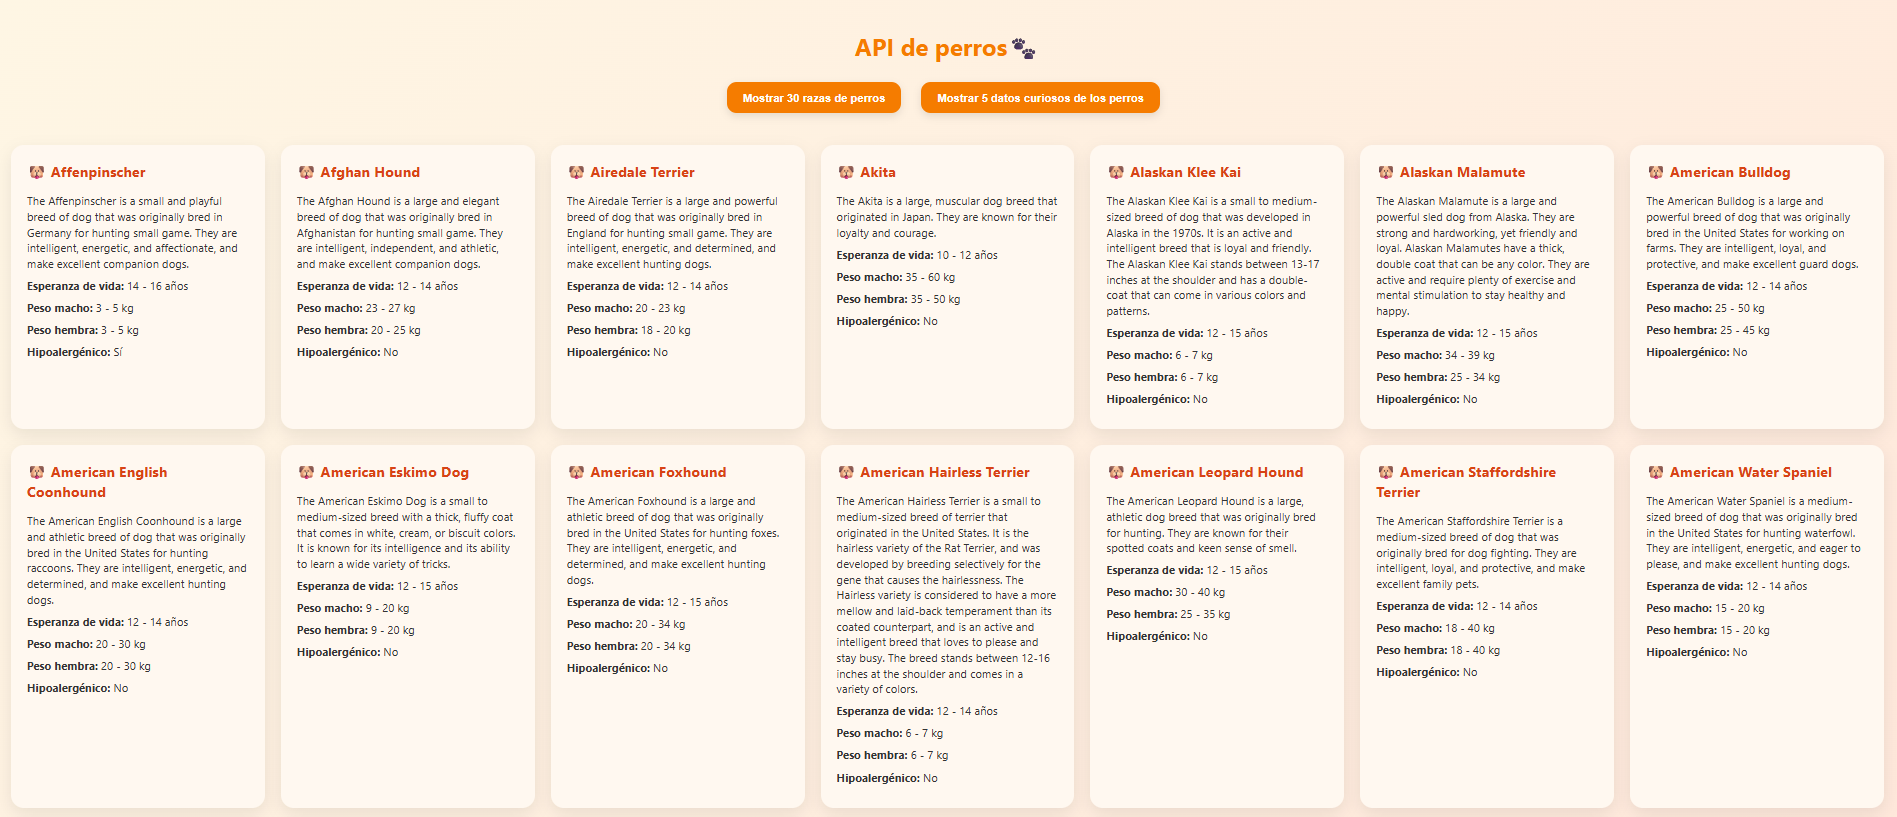
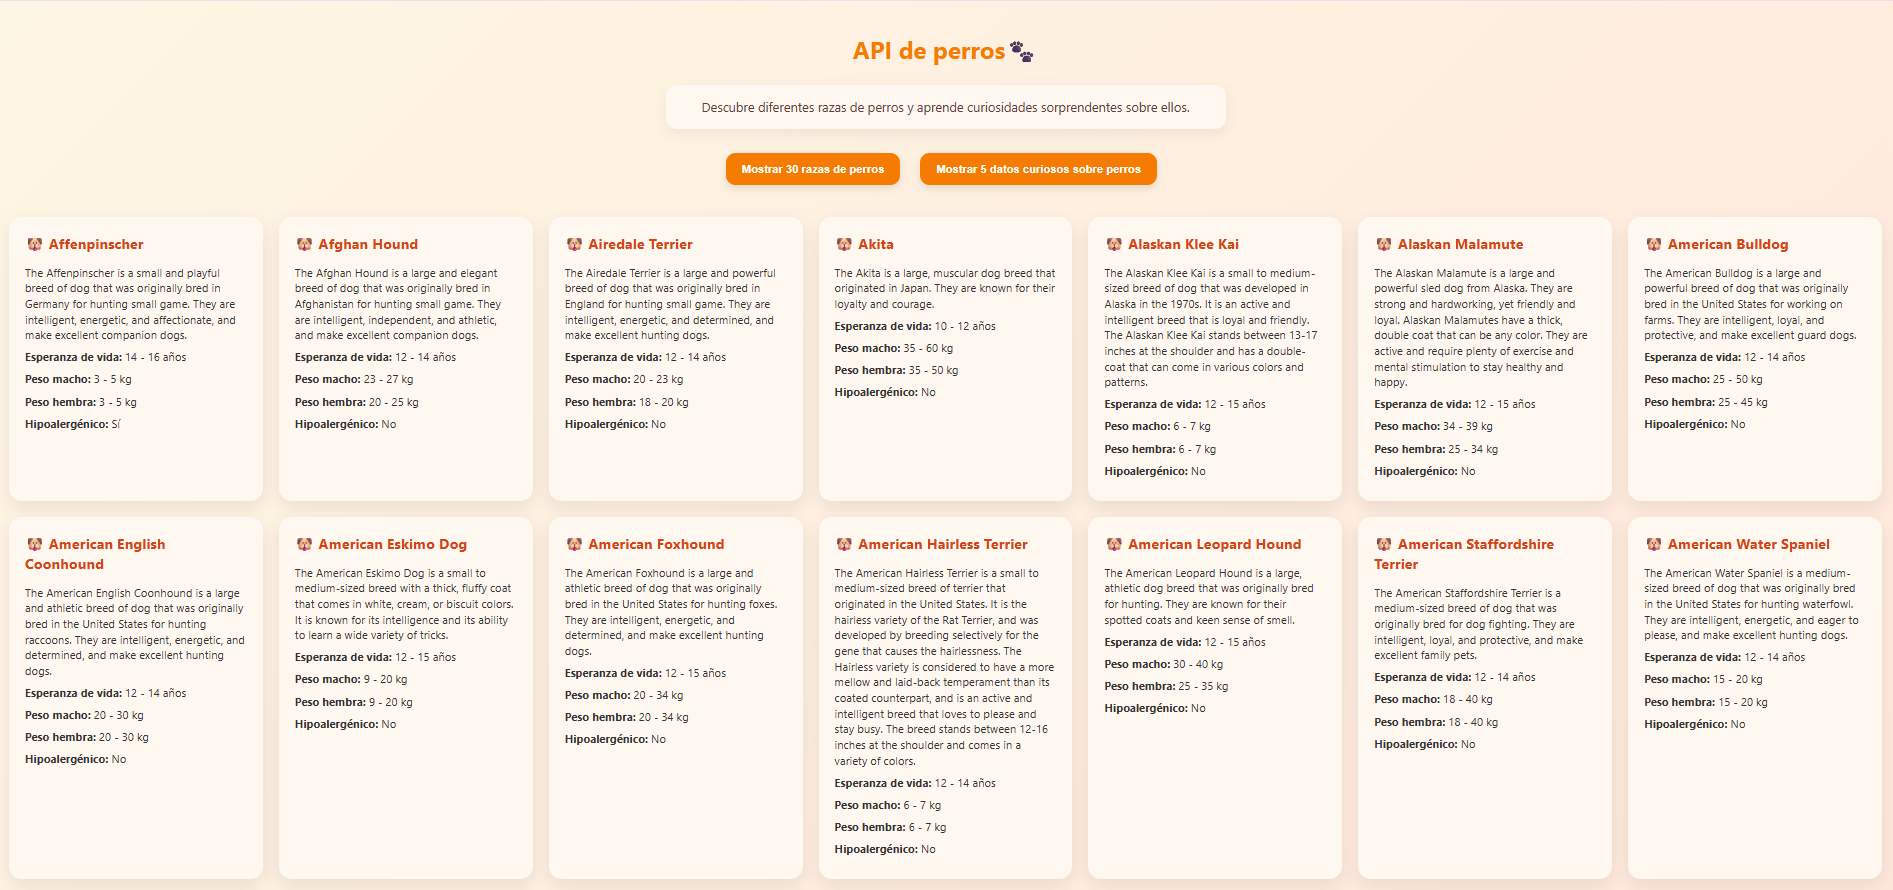
Mejora diseño, añade párrafo introductorio y corrige pequeños errores

Changed region(s): [[0.1558, 0.0306, 0.9974, 0.9792], [0.0, 0.5202, 0.1247, 0.8568], [0.0, 0.1836, 0.1247, 0.4896]]

diff --git a/js/app.js b/js/app.js
@@ -3,7 +3,7 @@ $().ready(() => {
   // Contenedor principal
   const contenedor = document.getElementById("demo");
 
-  // Función reutilizable para crear un <li> y añadirlo a la lista
+  // Función para crear un <li> y añadirlo a la lista
   function crearLi(contenido, lista) {
     let item = document.createElement("li");
     item.innerHTML = contenido;
@@ -27,7 +27,7 @@ $().ready(() => {
       type: "GET",
       dataType: "json",
       success: (respuesta) => {
-        console.log(respuesta.data);
+        //console.log(respuesta.data);
 
         // Limpiamos el contenedor anterior
         document.getElementById("demo").innerHTML = "";
@@ -53,7 +53,7 @@ $().ready(() => {
             if (clave === "name") {
               let titulo = document.createElement("h3");
               titulo.textContent = "🐶 " + valor;
-              articulo.append(titulo);
+              articulo.appendChild(titulo);
             } else if (clave === "hypoallergenic") {
               // Formateamos el valor booleano para mostrar Sí / No
               texto = `<strong>Hipoalergénico:</strong> ${valor ? "Sí" : "No"}`;
@@ -111,11 +111,11 @@ $().ready(() => {
           //console.log(fact.attributes.body)
 
           let parrafo = document.createElement("p");
-          parrafo.classList.add("dato");
+          parrafo.className = "fact";
           parrafo.textContent = fact.attributes.body;
 
           contenedor.appendChild(parrafo);
-        });
+        })
       },
       error: () => {
         contenedor.innerHTML = "";
@@ -125,7 +125,7 @@ $().ready(() => {
         mensajeError.textContent =
           "⚠ No se pudieron cargar los datos. Inténtalo de nuevo más tarde.";
         contenedor.appendChild(mensajeError);
-      },
-    });
-  });
-});
+      }
+    })
+  })
+})

diff --git a/css/styles.css b/css/styles.css
@@ -13,7 +13,6 @@ body {
     color: #333;
 }
 
-/* Título principal */
 h1 {
     text-align: center;
     margin-bottom: 25px;
@@ -22,7 +21,21 @@ h1 {
 }
 
 
-.botones {
+p {
+    max-width: 700px;
+    margin: 0 auto 30px auto;
+    text-align: center;
+    font-size: 16px;
+    line-height: 1.6;
+    color: #5d4037;
+    background-color: #fff8f0;
+    padding: 15px 25px;
+    border-radius: 14px;
+    box-shadow: 0 6px 18px rgba(0,0,0,0.06);
+}
+
+
+.buttons {
     display: flex;
     justify-content: center; 
     gap: 15px;              
@@ -89,8 +102,8 @@ article li {
 }
 
 /* Datos curiosos */
-.dato {
-    background-color: #fff8e1; /* amarillo pastel */
+.fact {
+    background-color: #fff8e1; 
     padding: 20px;
     border-left: 6px solid #f57c00;
     border-radius: 12px;
@@ -100,7 +113,7 @@ article li {
     transition: transform 0.2s ease;
 }
 
-.dato:hover {
+.fact:hover {
     transform: translateY(-3px);
 }
 
@@ -116,6 +129,7 @@ article li {
     text-align: center;
 }
 
+/* Mensaje de carga */
 .loader {
     text-align: center;
     font-weight: bold;

diff --git a/index.html b/index.html
@@ -12,10 +12,10 @@
 
 <body>
     <h1>API de perros🐾</h1>
-    <div class="botones">
+    <p>Descubre diferentes razas de perros y aprende curiosidades sorprendentes sobre ellos.</p>
+    <div class="buttons">
         <button id="btn-breeds">Mostrar 30 razas de perros</button>
-        <button id="btn-facts" title="Cada click muestra datos curiosos distintos">Mostrar 5 datos curiosos de los
-            perros</button>
+        <button id="btn-facts" title="Cada click muestra datos curiosos distintos">Mostrar 5 datos curiosos sobre perros</button>
     </div>
     <div id="demo"></div>
 </body>

diff --git a/README.md b/README.md
@@ -14,8 +14,11 @@ Aplicación web que consume la API pública https://dogapi.dog para mostrar:
 - jQuery
 - AJAX
 - API REST
+
 ## 📷 Captura
+Página de razas de perros
 ![Preview](assets/screenshot_razas.png)
+Página de datos curiosos sobre perros
 ![Preview](assets/screenshot_datos.png)
 
 ## 🌐 Demo
